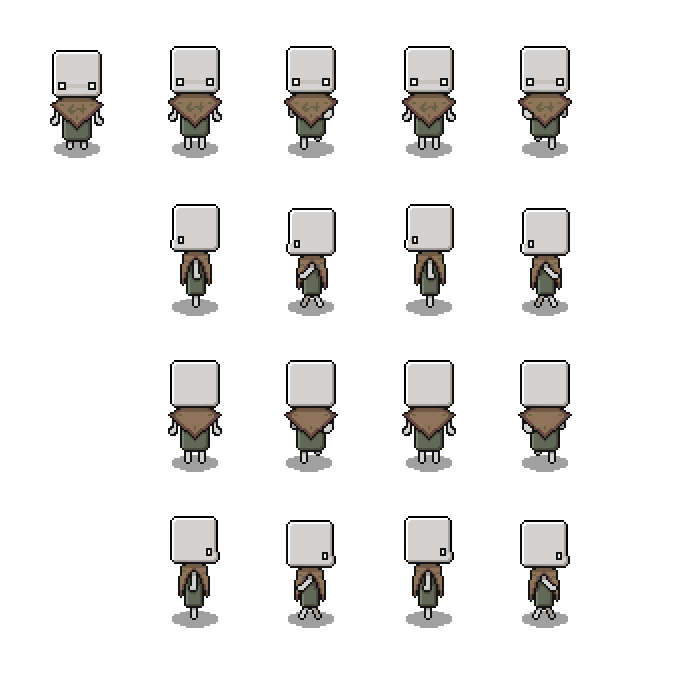
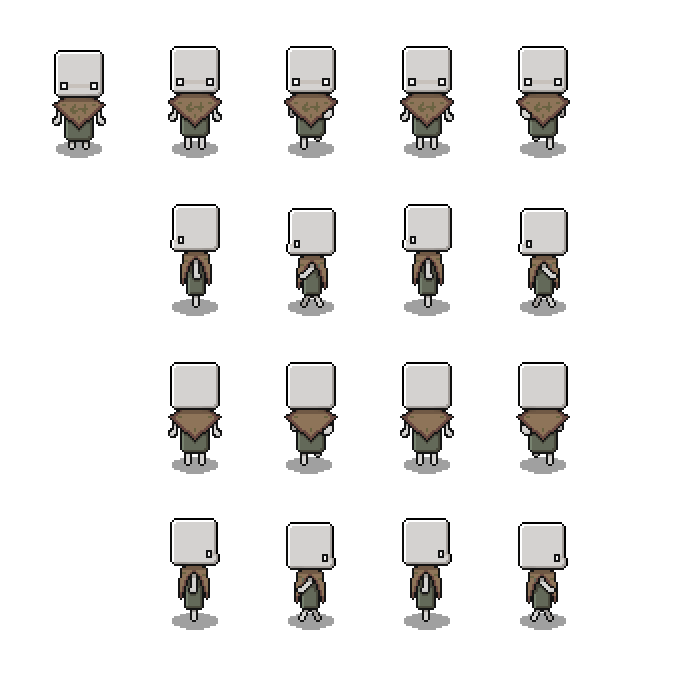
sprite moki arreglado

diff --git a/Personaje.py b/Personaje.py
@@ -13,22 +13,17 @@ class Personaje(sprite.Sprite):
         # Variables para nuestro control del sprite:
         self.frames = 4               # Número máximo de imágenes
         self.current_frame = 0        # Imagen actual
-        self.frame_width = 64        # Anchura de la imagen
-        self.frame_height = 64        # Altura de la imagen
+        self.frame_width = 115        # Anchura de la imagen
+        self.frame_height = 158        # Altura de la imagen
         self.frame_counter = FPSPRITE # Nº de frames por imagen
 
         # Cargamos la hoja completa de sprites del personaje.
         # Se realiza convert_alpha() para que tenga en cuenta transparencias (capa alpha)
 
 
-        ''' Cargamos la hoja completa de sprites del personaje.
-            Se realiza convert_alpha() para que tenga en cuenta transparencias (capa alpha)
-        '''
-
-        self.spriteSheet = pygame.image.load("imagenes/moki2.png").convert_alpha()
-        self.spriteSheet = pygame.transform.scale(self.spriteSheet, (256, 256))
+        self.spriteSheet = pygame.image.load("imagenes/Moki.png").convert_alpha()
         # "image" se corresponde con la imagen actual a mostrar.
-        self.image = self.spriteSheet.subsurface(0,0,self.frame_width,self.frame_height)
+        self.image = self.spriteSheet.subsurface(136,0,self.frame_width,self.frame_height)
         # Collision box:
         self.rect = pygame.Rect(x,y,self.frame_width,20)
 
@@ -47,26 +42,26 @@ class Personaje(sprite.Sprite):
 
         # si no se está moviendo, ponemos sprite normal:
         if not (keys[K_DOWN] or keys[K_LEFT] or keys[K_RIGHT] or keys[K_UP]):
-            self.image = self.spriteSheet.subsurface((0,0, self.frame_width, self.frame_height))
+            self.image = self.spriteSheet.subsurface((136,0, self.frame_width+15, self.frame_height))
 
         # movimiento y animación según la dirección de movimiento:
         if keys[K_DOWN]:
-            self.image = self.spriteSheet.subsurface((self.current_frame * self.frame_width,
+            self.image = self.spriteSheet.subsurface((self.current_frame * self.frame_width+136,
                                                       0,
                                                       self.frame_width, self.frame_height))
             self.move((0, self.speedy), mapa, obs)
         if keys[K_LEFT]:
-            self.image = self.spriteSheet.subsurface((self.current_frame * self.frame_width,
+            self.image = self.spriteSheet.subsurface((self.current_frame * self.frame_width+136,
                                                       self.frame_height,
                                                       self.frame_width, self.frame_height))
             self.move((-self.speedx, 0), mapa, obs)
         if keys[K_RIGHT]:
-            self.image = self.spriteSheet.subsurface((self.current_frame * self.frame_width,
+            self.image = self.spriteSheet.subsurface((self.current_frame * self.frame_width+136,
                                                       3*self.frame_height,
                                                       self.frame_width, self.frame_height))
             self.move((self.speedx, 0), mapa, obs)
         if keys[K_UP]:
-            self.image = self.spriteSheet.subsurface((self.current_frame * self.frame_width,
+            self.image = self.spriteSheet.subsurface((self.current_frame * self.frame_width+136,
                                                       2*self.frame_height,
                                                       self.frame_width, self.frame_height))
             self.move((0,-self.speedy), mapa, obs)

diff --git a/Pantalla1.py b/Pantalla1.py
@@ -39,22 +39,26 @@ class Pantalla1(Scene):
         if keys[K_r]:
             if self.pj.rect.centerx>=480 and self.pj.rect.centerx<=520:
                 self.text.dialog2()
-
             else:
                 self.text.dialog1()
+        if keys[K_t]:
+            self.text.menu()
 
 
     def on_draw(self, screen):
         if self.text.display:
             screen.blit(self.text.image, self.text.rect)
             screen.blit(self.text.text, self.text.rectext)
+        elif self.text.displayMenu:
+            screen.blit(self.text.menuImage, self.text.menuRect)
         else:
             screen.blit(self.background, self.camera.apply(self.background.get_rect()))
             for o in self.obs:
                 screen.blit(o.image, self.camera.apply(o.rect))
             for i in self.ingame_elemets:
-                screen.blit(i.image, self.camera.apply(i.rect).move(0, -44))
-            
+                screen.blit(i.image, self.camera.apply(i.rect).move(0, -150))
+            pygame.draw.rect(screen, (0,100,200), self.camera.apply(self.pj.rect))
+
 class Pantalla2(Scene):
 
     def __init__(self,map,image):

diff --git a/text.py b/text.py
@@ -1,9 +1,13 @@
 import pygame
 from pygame.locals import *
+from Variables import *
 
 class Text:
 
     def __init__(self):
+        self.menuImage = pygame.image.load("imagenes/Menu.png").convert_alpha()
+        self.menuImage = pygame.transform.scale(self.menuImage, (ventana[0]-100, ventana[1]-100))
+        self.menuRect = self.menuImage.get_rect()
         self.font = pygame.font.Font("imagenes/ARCADECLASSIC.TTF",20)
         self.image = pygame.image.load("imagenes/text_box.png").convert_alpha()
         self.image = pygame.transform.scale(self.image, (800, 300))
@@ -13,6 +17,7 @@ class Text:
         self.color1= (3, 123, 239)
         self.color2= (200,50,50)
         self.display = False
+        self.displayMenu = False
         self.finishdialog = False
         self.countdialog=0;
         self.chat1=[False, False]
@@ -49,3 +54,10 @@ class Text:
                 self.display=True
             else:
                 self.display= False
+
+
+    def menu(self):
+        if not self.displayMenu:
+            self.displayMenu=True
+        else:
+            self.displayMenu= False

diff --git a/Variables.py b/Variables.py
@@ -1,7 +1,7 @@
 import pygame
 from pygame.locals import *
 # Escenarios y ventanas:
-map1 = (1600, 1300)
+map1 = (1600, 1290)
 map2 = (10000, 3000)
 ventana = (1000, 757)
 
@@ -10,4 +10,4 @@ agua = (50, 120, 240)
 hierba = (50, 220, 50)
 
 # Otros:
-FPSPRITE = 15 # frames por sprite (personaje)
+FPSPRITE = 5 # frames por sprite (personaje)
